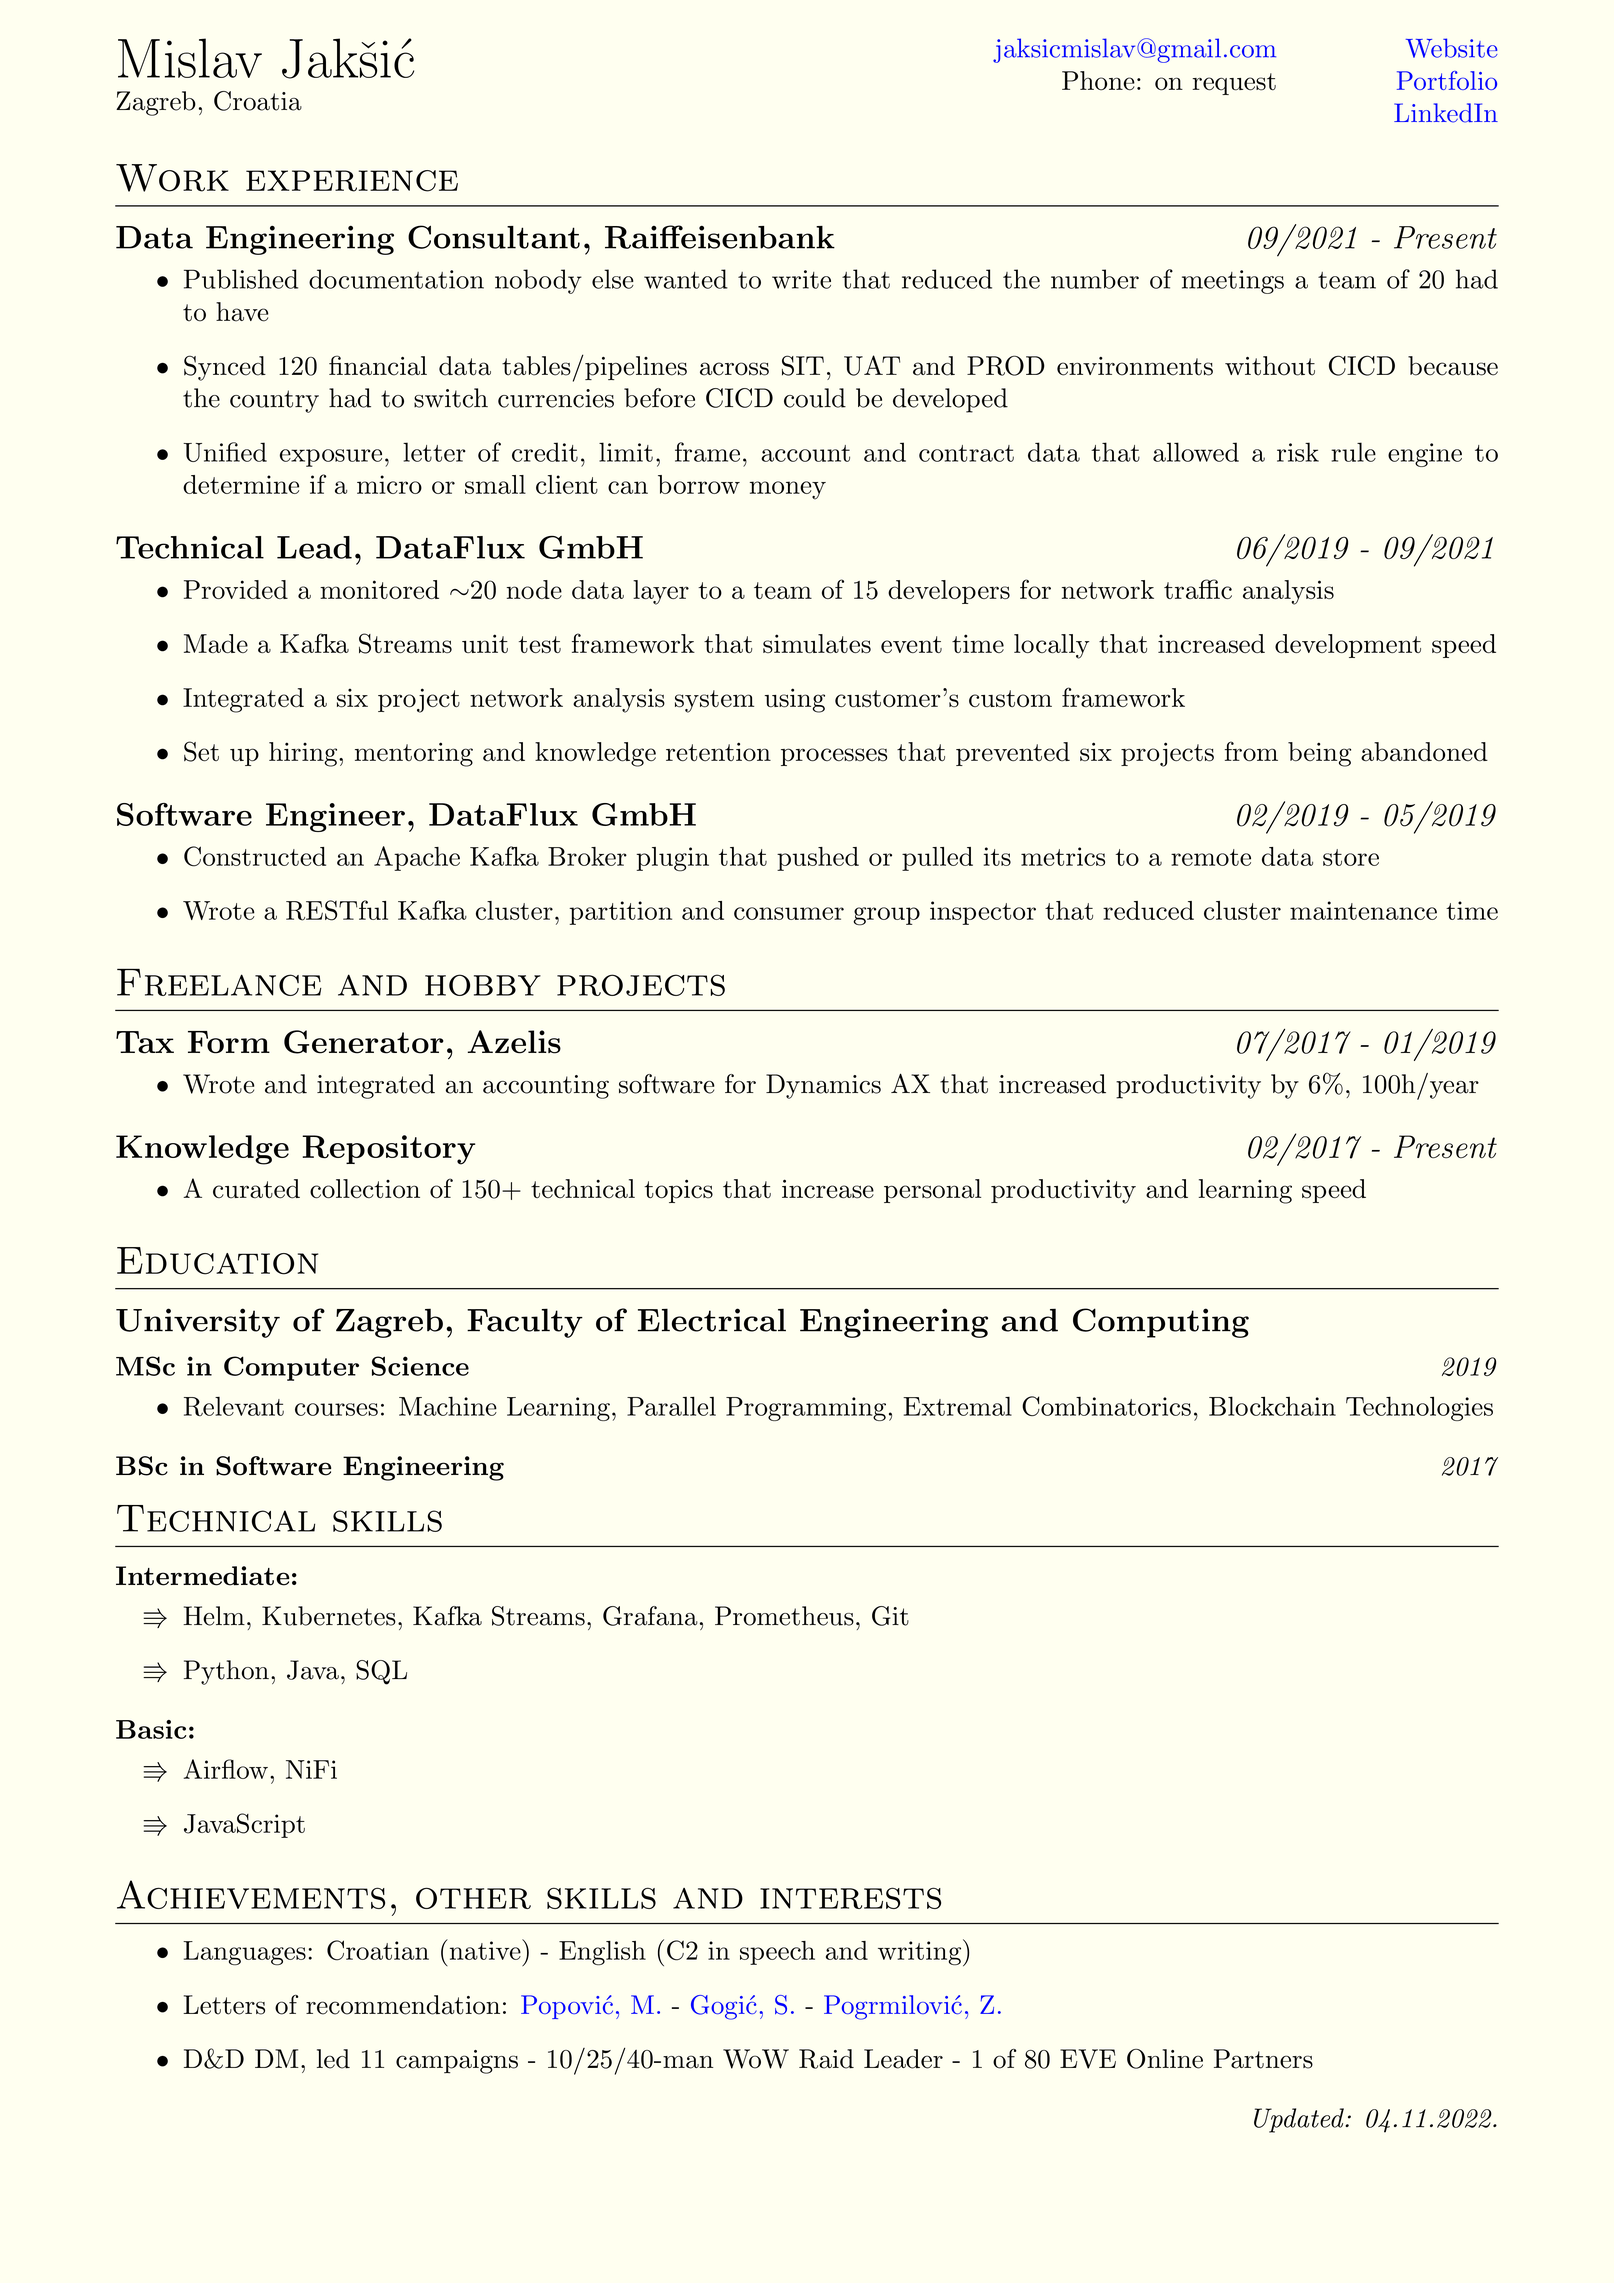
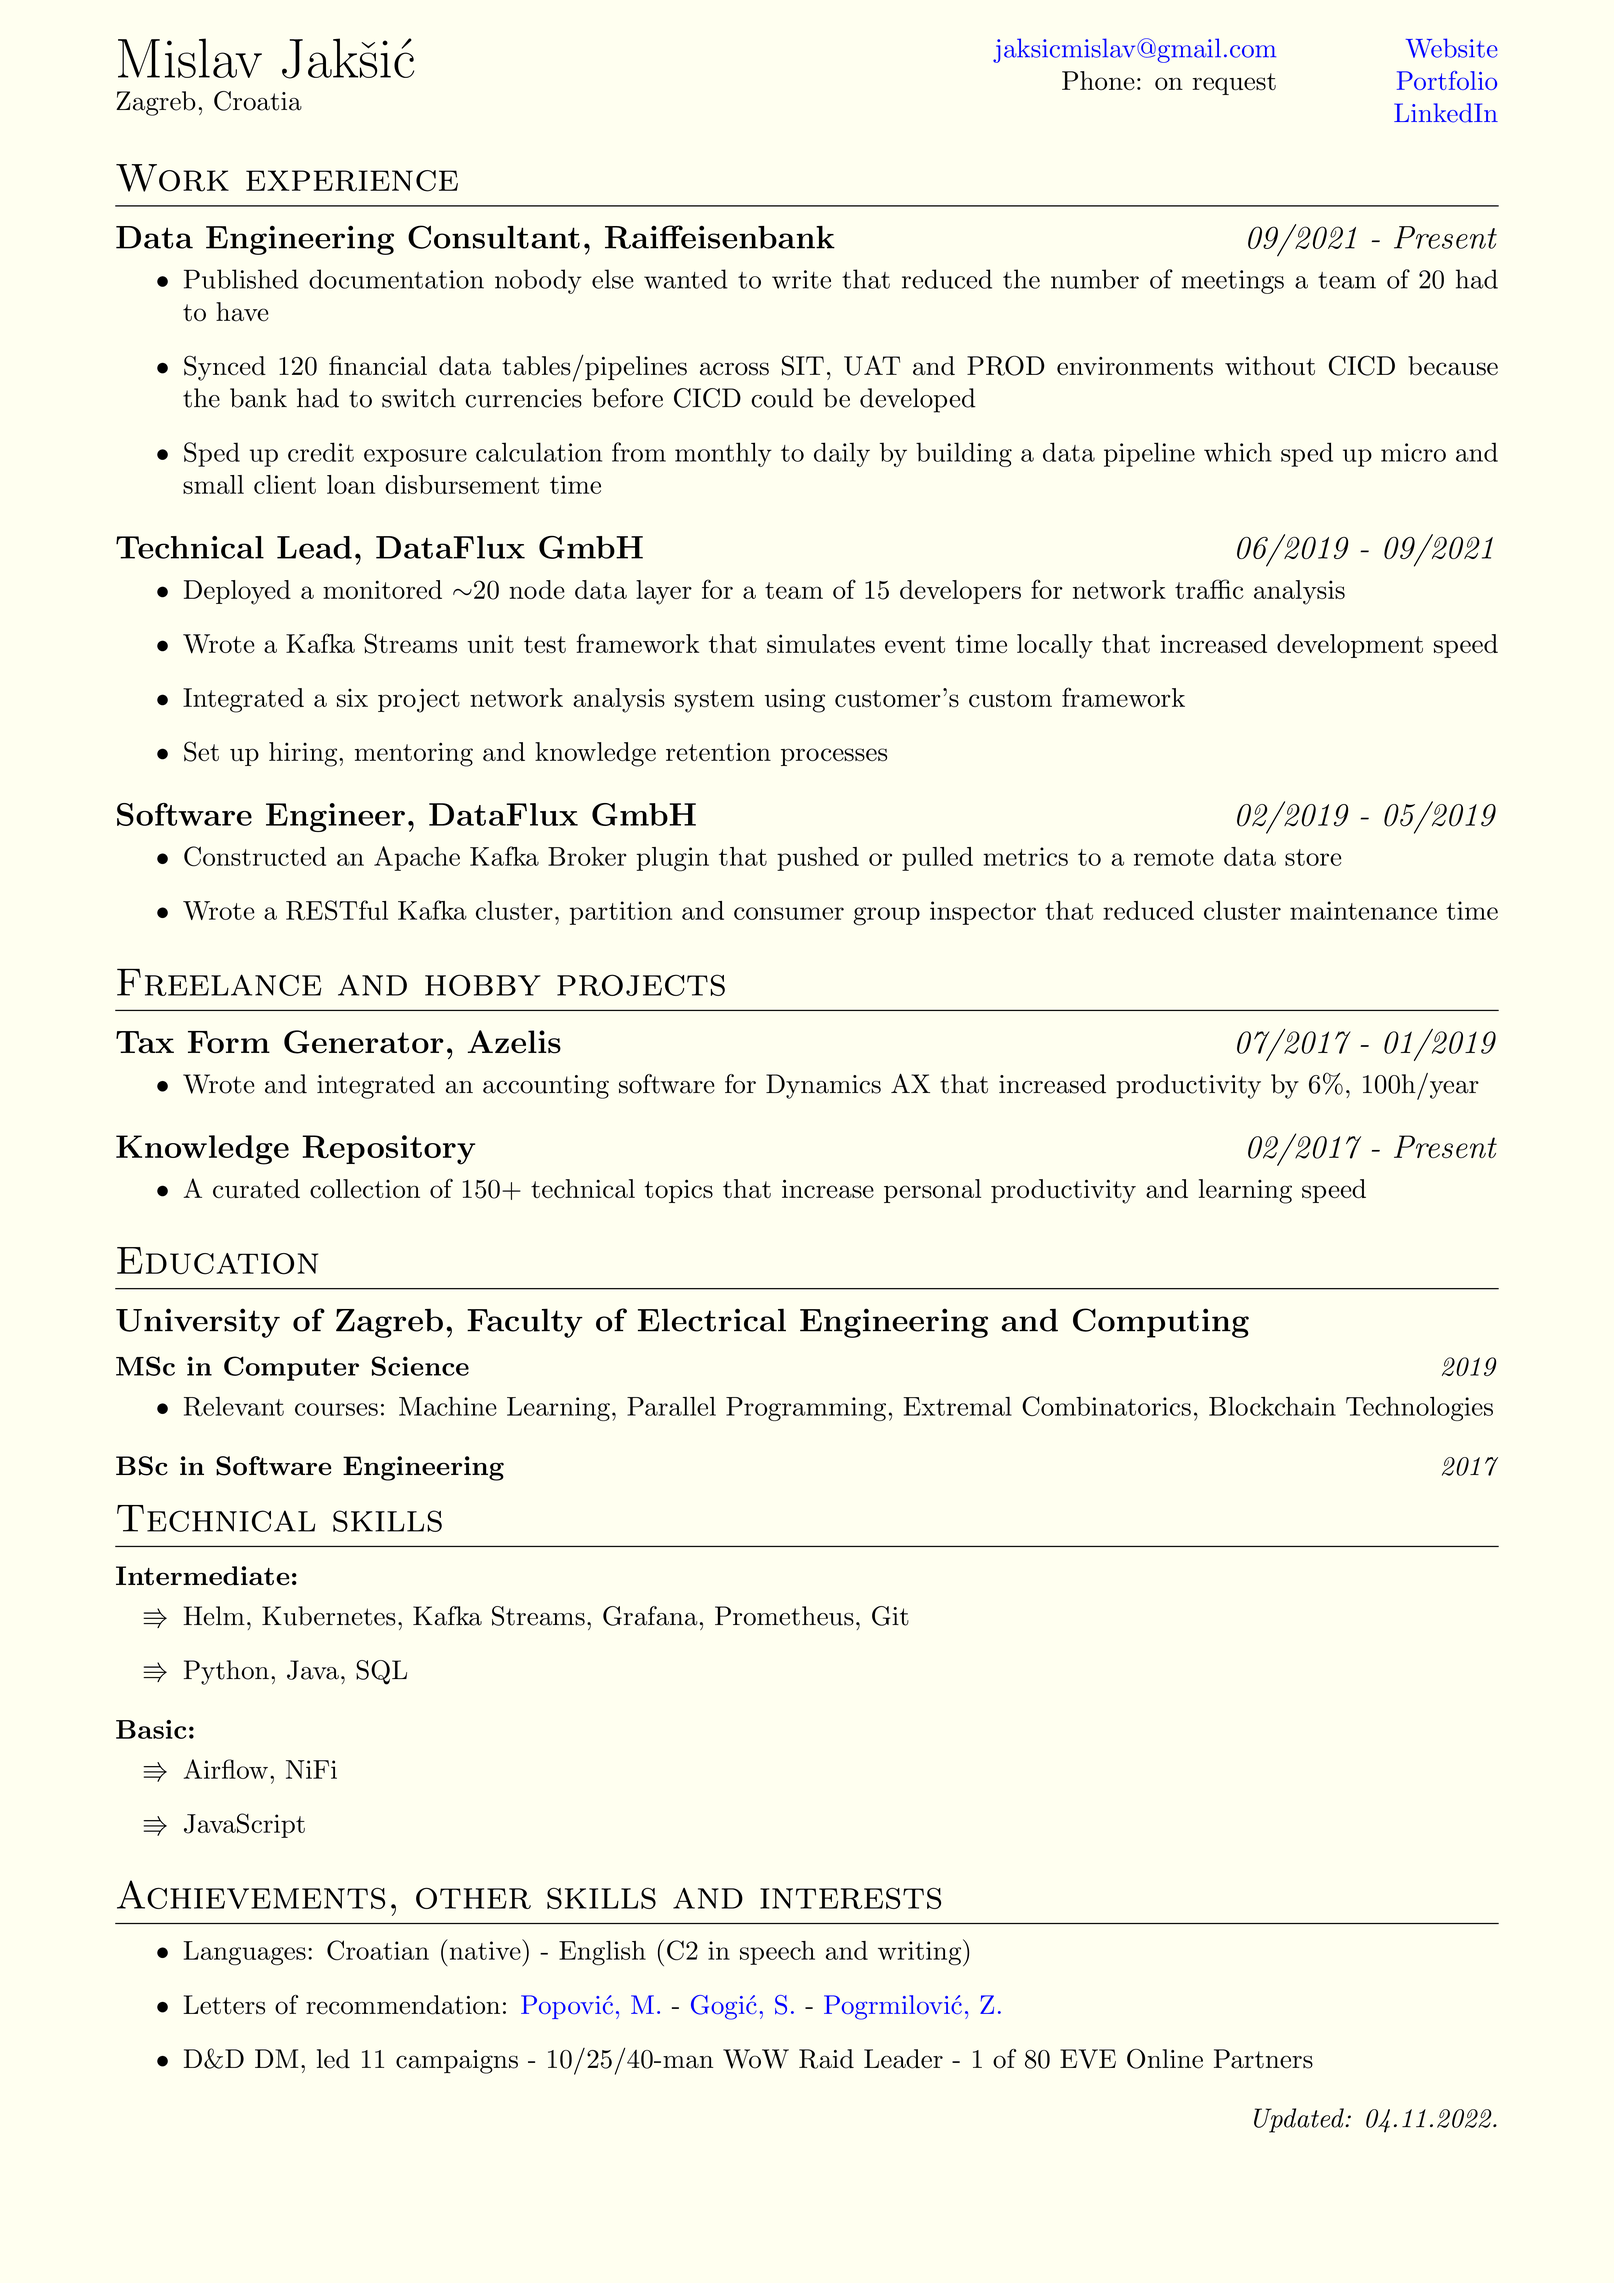
Clarified business use case

diff --git a/CV.tex b/CV.tex
@@ -136,24 +136,24 @@ Phone: on request
 
 \begin{itemize}
  \item Published documentation nobody else wanted to write that reduced the number of meetings a team of 20 had to have
- \item Synced 120 financial data tables/pipelines across SIT, UAT and PROD environments without CICD because the country had to switch currencies before CICD could be developed
- \item Unified exposure, letter of credit, limit, frame, account and contract data that allowed a risk rule engine to determine if a micro or small client can borrow money
+ \item Synced 120 financial data tables/pipelines across SIT, UAT and PROD environments without CICD because the bank had to switch currencies before CICD could be developed
+ \item Sped up credit exposure calculation from monthly to daily by building a data pipeline which sped up micro and small client loan disbursement time
 \end{itemize}
 
 \subsection{\bolditalicpair{Technical Lead, DataFlux GmbH}{06/2019 - 09/2021}}
 
 \begin{itemize}
- \item Provided a monitored $\sim$20 node data layer to a team of 15 developers for network traffic analysis
- \item Made a Kafka Streams unit test framework that simulates event time locally that increased development speed
+ \item Deployed a monitored $\sim$20 node data layer for a team of 15 developers for network traffic analysis
+ \item Wrote a Kafka Streams unit test framework that simulates event time locally that increased development speed
  \item Integrated a six project network analysis system using customer's custom framework
- \item Set up hiring, mentoring and knowledge retention processes that prevented six projects from being abandoned
+ \item Set up hiring, mentoring and knowledge retention processes
 % \item[$\Rrightarrow$] Kubernetes, Helm, Kafka, Kafka Streams, Prometheus, Grafana, Jaeger, Argo CICD
 \end{itemize}
 
 \subsection{\bolditalicpair{Software Engineer, DataFlux GmbH}{02/2019 - 05/2019}}
 
 \begin{itemize}
-  \item Constructed an Apache Kafka Broker plugin that pushed or pulled its metrics to a remote data store
+  \item Constructed an Apache Kafka Broker plugin that pushed or pulled metrics to a remote data store
   \item Wrote a RESTful Kafka cluster, partition and consumer group inspector that reduced cluster maintenance time
 %  \item[$\Rrightarrow$] Kafka, ZooKeeper, Spring, JMX, Git, Linux, Shell Scripting
 \end{itemize}
